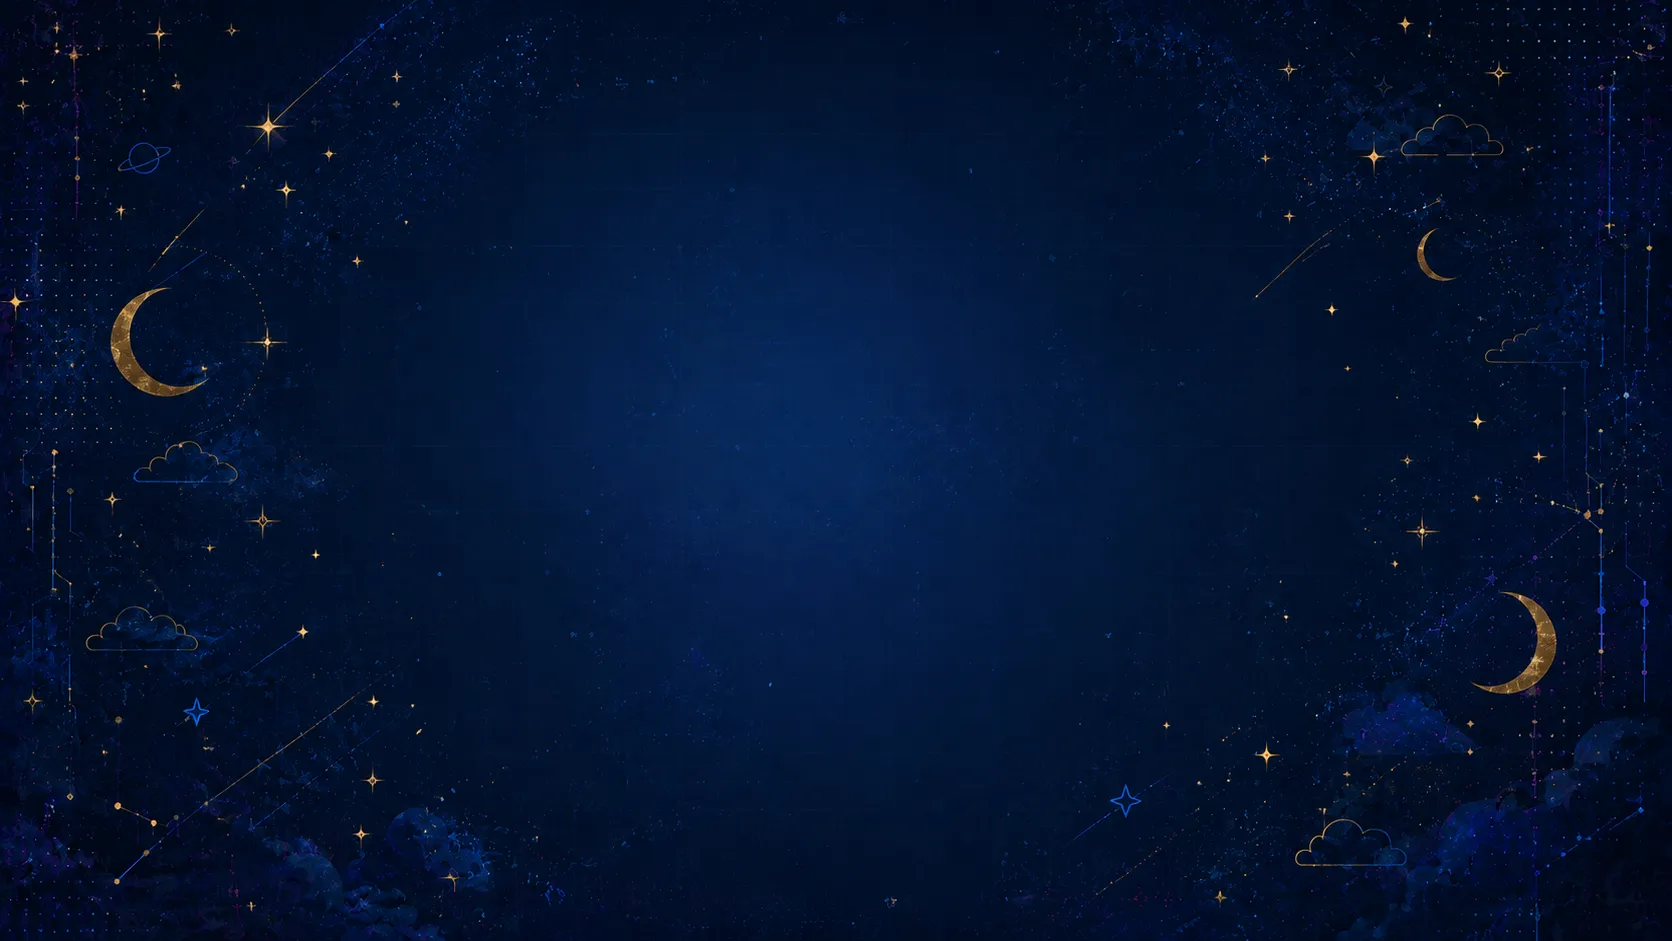
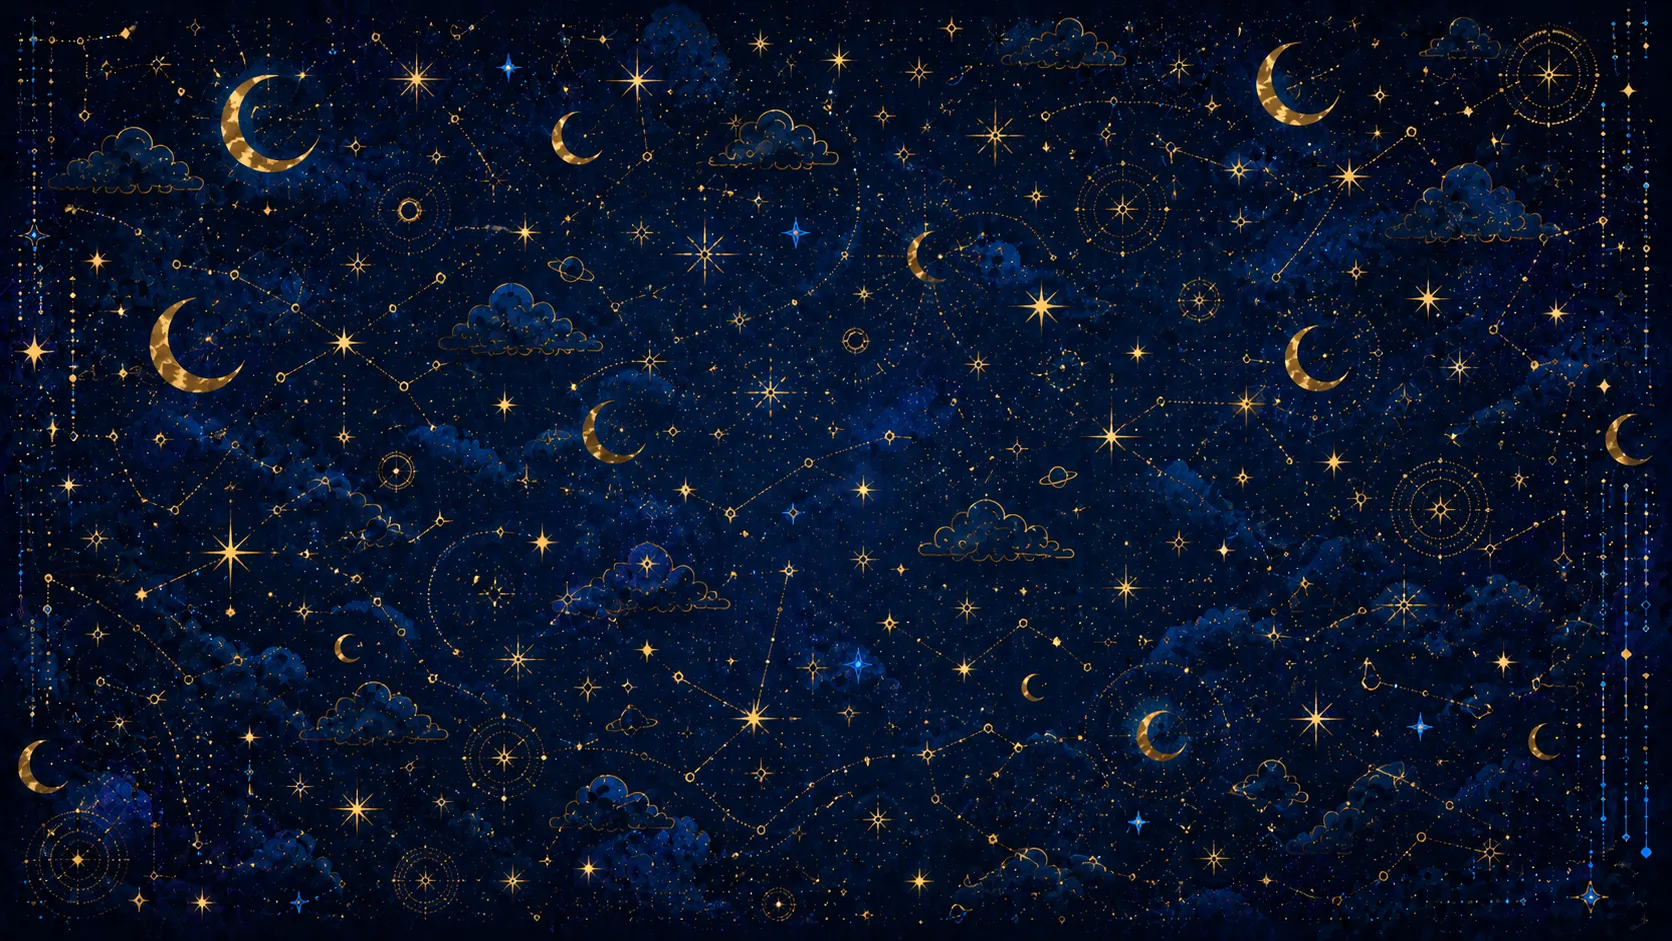
Refine transparent cards and add cooking webp assets

Changed region(s): [[0.0, 0.0, 1.0, 1.0], [0.8708, 0.4315, 0.9019, 0.4623]]

diff --git a/life.css b/life.css
@@ -59,13 +59,18 @@
 }
 
 .life-title {
-    position: relative;
-    left: -13px;
+    position: absolute;
+    left: 50%;
+    top: 50%;
+    width: max-content;
+    max-width: calc(100% - 104px);
     font-size: 22px;
     font-weight: 700;
     color: var(--text-primary);
     margin: 0;
-    animation: fadeSlideUp 0.6s 0.1s both;
+    text-align: center;
+    transform: translate(-50%, -50%);
+    animation: fadeSlideUpCentered 0.6s 0.1s both;
 }
 
 .life-subtitle {
@@ -796,6 +801,16 @@
     color: #f0f4ff;
 }
 
+@keyframes fadeSlideUpCentered {
+    from {
+        opacity: 0;
+        transform: translate(-50%, calc(-50% + 8px));
+    }
+    to {
+        opacity: 1;
+        transform: translate(-50%, -50%);
+    }
+}
 /* ---------- Responsive ---------- */
 @media (max-width: 480px) {
     .life-page {
@@ -862,10 +877,8 @@
 }
 
 .life-title {
-    left: 0;
-    max-width: 100%;
+    max-width: calc(100% - 104px);
     overflow-wrap: anywhere;
-    text-align: center;
 }
 
 .life-card {
@@ -970,6 +983,7 @@
     }
 
     .life-title {
+        max-width: calc(100% - 88px);
         font-size: 20px;
     }
 

diff --git a/style.css b/style.css
@@ -1786,3 +1786,20 @@ button.link-btn {
         transition: none !important;
     }
 }
+
+/* ---------- Transparent Page Cards ---------- */
+.bio-card.home-bio-card,
+.bio-card.life-page,
+.bio-card.album-page,
+.photo-card {
+    background: transparent;
+    backdrop-filter: none;
+    -webkit-backdrop-filter: none;
+}
+
+.dark .bio-card.home-bio-card,
+.dark .bio-card.life-page,
+.dark .bio-card.album-page,
+.dark .photo-card {
+    background: transparent;
+}

diff --git a/index.html b/index.html
@@ -26,7 +26,7 @@
     <div class="blob blob--2" aria-hidden="true"></div>
     <div class="blob blob--3" aria-hidden="true"></div>
 
-    <main class="bio-card">
+    <main class="bio-card home-bio-card">
         <!-- Profile header -->
         <header class="profile-header">
             <div class="avatar-ring">